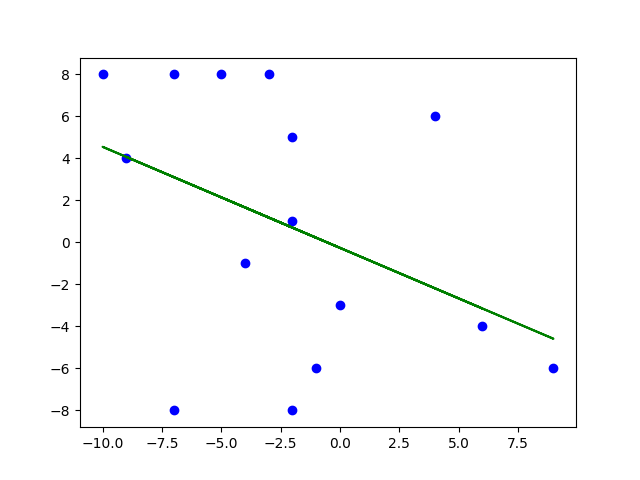
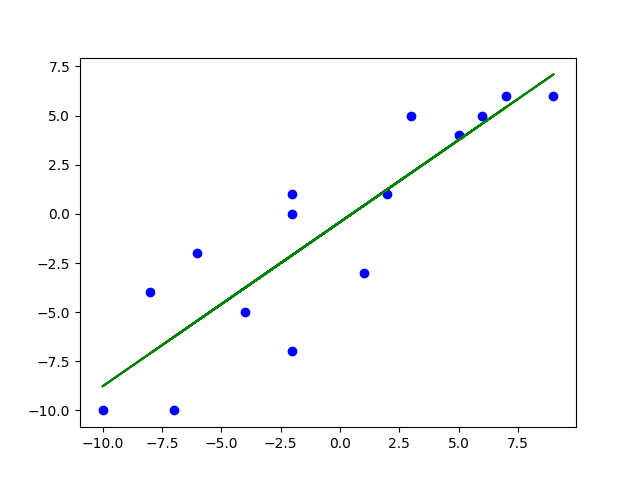
Improve dataset generating

diff --git a/datagen.py b/datagen.py
@@ -7,18 +7,29 @@ Sample = tuple[ Vector, float ]
 def create_x( dim: int, lower: int, upper: int ) -> Vector:
     return Vector( [ randint( lower, upper ) for _ in range( dim ) ] )
 
+## Sample "almost" linear function
+def linear( xs: Vector, variance: int ) -> int:
+
+    res = 0
+    for x in xs:
+        res += x
+
+    return res + randint( -variance, variance )
+
 
 def create_dataset( size: int,
                     dim: int,
                     lower_x: int=-10,
                     upper_x: int=10,
                     lower_y: int=-10,
-                    upper_y: int=10 ) -> list[ Sample ]:
+                    upper_y: int=10,
+                    variance: int=5 ) -> list[ Sample ]:
     
     res = []
     for _ in range( size ):
-        y = randint( lower_y, upper_y )
+        
         x = create_x( dim, lower_x, upper_x )
+        y = linear( x, variance )
         res.append( ( x, y ) )
 
     return res

diff --git a/vis.py b/vis.py
@@ -48,7 +48,7 @@ def show_3d_regression( data: list[ Sample ],
     ax.plot_trisurf( xs, ys, zs, color="g" )
     plt.show( )
 
-model = LinearRegression( 2 )
-dataset = datagen.create_dataset( 15, 2 )
+model = LinearRegression( 1 )
+dataset = datagen.create_dataset( 15, 1 )
 model.learn( dataset )
-show_3d_regression( dataset, model )
+show_2d_regression( dataset, model )
